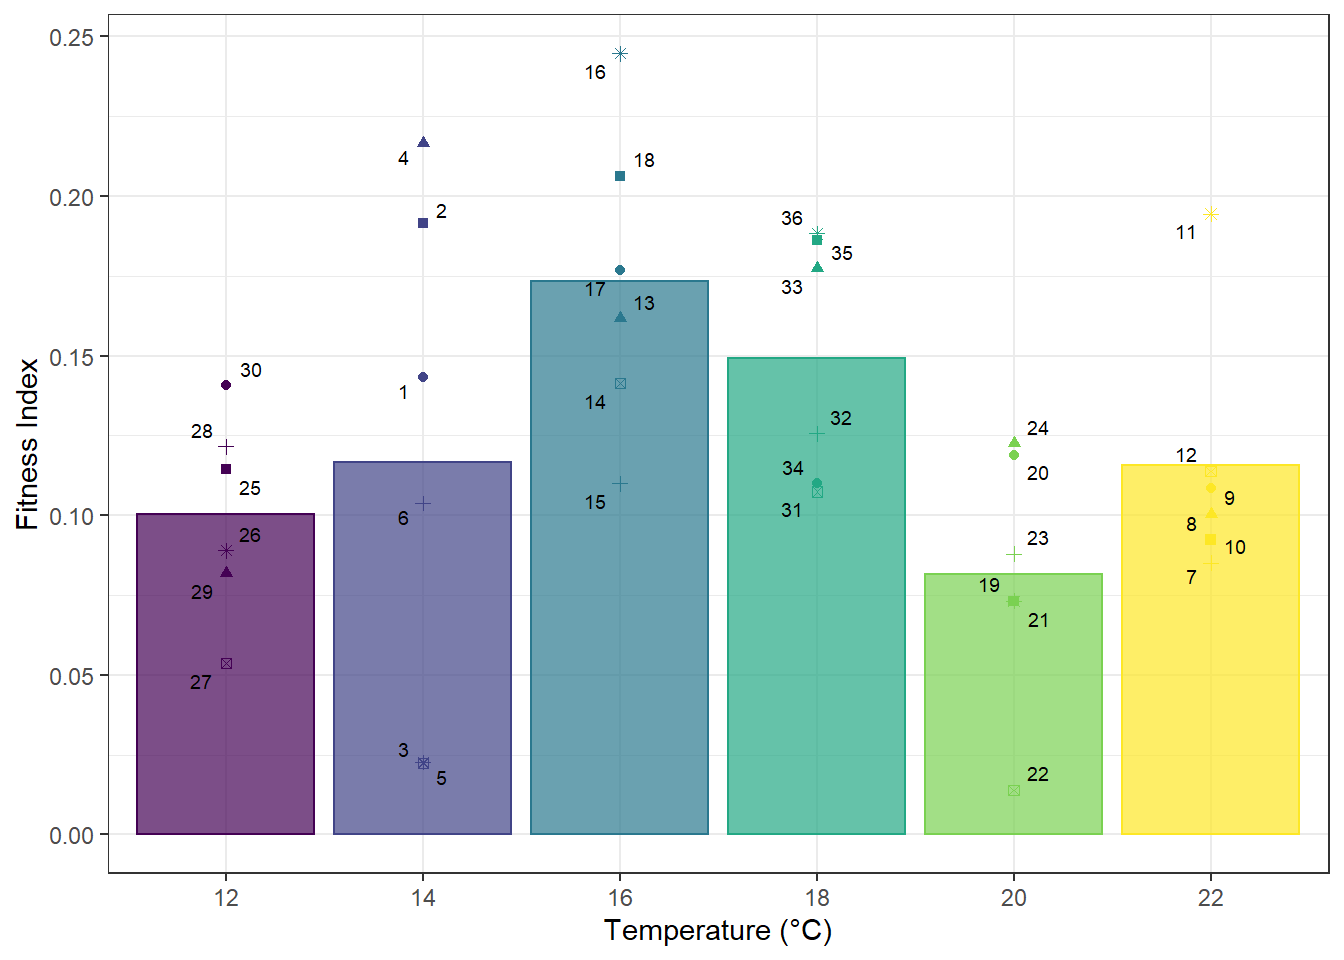
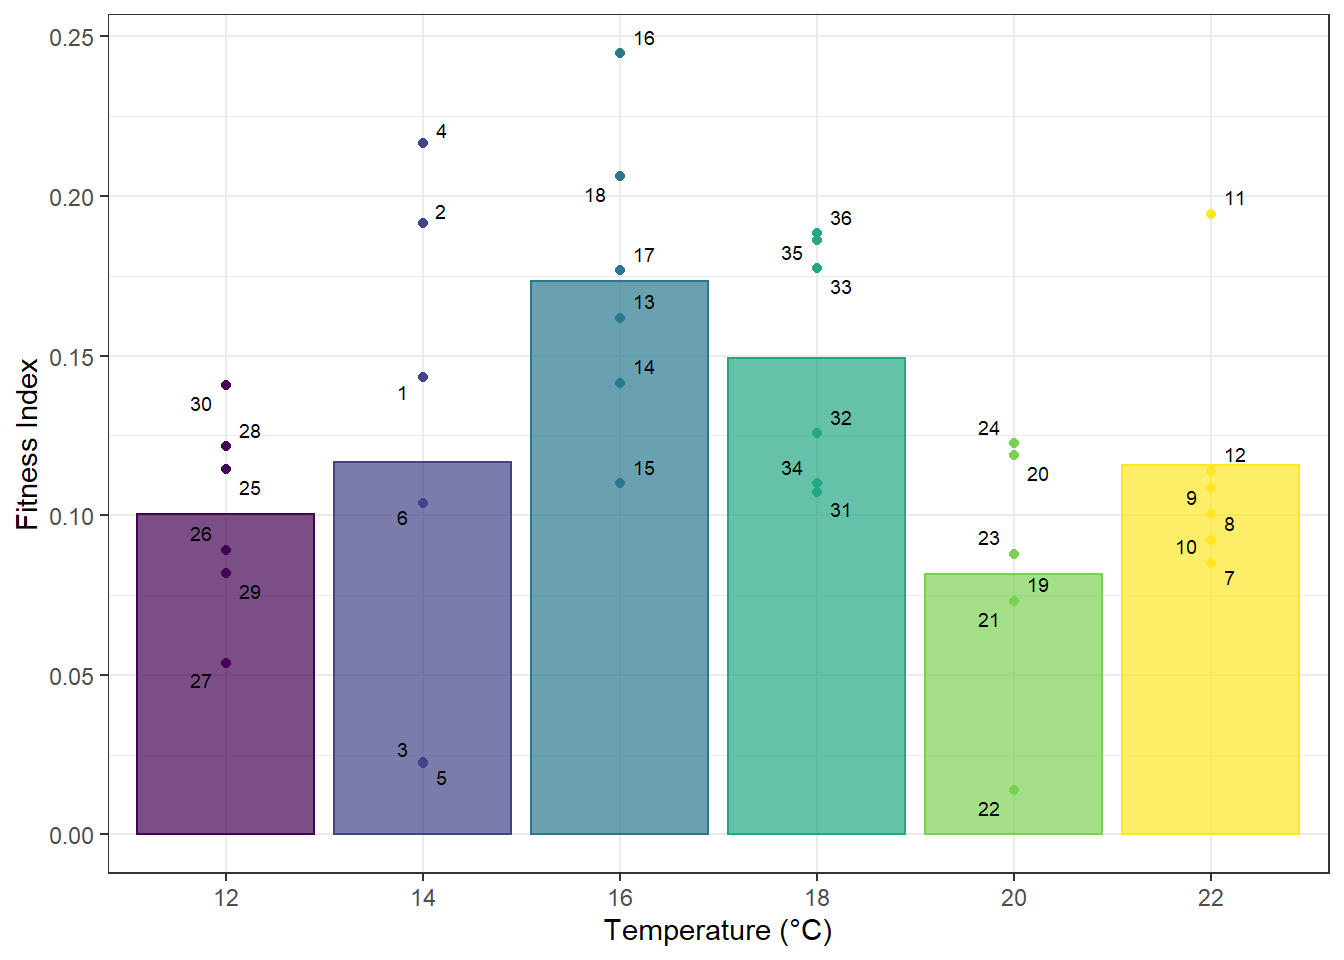
Fixed issue in github website plot

diff --git a/docs/fitness.html b/docs/fitness.html
@@ -258,8 +258,8 @@ code span.wa { color: #60a0b0; font-weight: bold; font-style: italic; } /* Warni
 <a class="sourceLine" id="cb34-17" title="17">                                             <span class="dt">zaxis =</span> <span class="kw">list</span>(<span class="dt">title =</span> <span class="st">&#39;Fitness Index&#39;</span>)))</a>
 <a class="sourceLine" id="cb34-18" title="18"></a>
 <a class="sourceLine" id="cb34-19" title="19">surf_fit</a></code></pre></div>
-<div id="htmlwidget-49cbc3a5ec70a724978b" style="width:672px;height:480px;" class="plotly html-widget"></div>
-<script type="application/json" data-for="htmlwidget-49cbc3a5ec70a724978b">{"x":{"visdat":{"2c542330188f":["function () ","plotlyVisDat"]},"cur_data":"2c542330188f","attrs":{"2c542330188f":{"z":[[0.140685143412217,0.143220950434744,0.176697243439627,0.109929108894883,0.118895798454461,0.108444125629431],[0.081867758815438,0.21668532245432,0.161802198716668,0.177295994291742,0.122468594904893,0.100359487782655],[0.114387836057187,0.191557804736859,0.206256853936537,0.186164270764454,0.0730318247364414,0.0923689928860526],[0.121601175372995,0.103830797166539,0.109931478140631,0.125601968954413,0.0879222850884593,0.085094968421349],[0.0537208318218097,0.0224041113467887,0.141439890436286,0.107377682625295,0.0139102911994651,0.113852619572023],[0.0890226758206065,0.0226753021989608,0.244732063437085,0.188301331869503,0.0731876349440555,0.194455762352886]],"x":[12,14,16,18,20,22],"y":[0,200,400,600,800,1000],"alpha_stroke":1,"sizes":[10,100],"spans":[1,20],"type":"surface"}},"layout":{"margin":{"b":40,"l":60,"t":25,"r":10},"scene":{"xaxis":{"title":"Temperature"},"yaxis":{"title":"Sulfate mg/L"},"zaxis":{"title":"Fitness Index"}},"hovermode":"closest","showlegend":false,"legend":{"yanchor":"top","y":0.5}},"source":"A","config":{"showSendToCloud":false},"data":[{"colorbar":{"title":"","ticklen":2,"len":0.5,"lenmode":"fraction","y":1,"yanchor":"top"},"colorscale":[["0","rgba(68,1,84,1)"],["0.0416666666666667","rgba(70,19,97,1)"],["0.0833333333333333","rgba(72,32,111,1)"],["0.125","rgba(71,45,122,1)"],["0.166666666666667","rgba(68,58,128,1)"],["0.208333333333333","rgba(64,70,135,1)"],["0.25","rgba(60,82,138,1)"],["0.291666666666667","rgba(56,93,140,1)"],["0.333333333333333","rgba(49,104,142,1)"],["0.375","rgba(46,114,142,1)"],["0.416666666666667","rgba(42,123,142,1)"],["0.458333333333333","rgba(38,133,141,1)"],["0.5","rgba(37,144,140,1)"],["0.541666666666667","rgba(33,154,138,1)"],["0.583333333333333","rgba(39,164,133,1)"],["0.625","rgba(47,174,127,1)"],["0.666666666666667","rgba(53,183,121,1)"],["0.708333333333333","rgba(79,191,110,1)"],["0.75","rgba(98,199,98,1)"],["0.791666666666667","rgba(119,207,85,1)"],["0.833333333333333","rgba(147,214,70,1)"],["0.875","rgba(172,220,52,1)"],["0.916666666666667","rgba(199,225,42,1)"],["0.958333333333333","rgba(226,228,40,1)"],["1","rgba(253,231,37,1)"]],"showscale":true,"z":[[0.140685143412217,0.143220950434744,0.176697243439627,0.109929108894883,0.118895798454461,0.108444125629431],[0.081867758815438,0.21668532245432,0.161802198716668,0.177295994291742,0.122468594904893,0.100359487782655],[0.114387836057187,0.191557804736859,0.206256853936537,0.186164270764454,0.0730318247364414,0.0923689928860526],[0.121601175372995,0.103830797166539,0.109931478140631,0.125601968954413,0.0879222850884593,0.085094968421349],[0.0537208318218097,0.0224041113467887,0.141439890436286,0.107377682625295,0.0139102911994651,0.113852619572023],[0.0890226758206065,0.0226753021989608,0.244732063437085,0.188301331869503,0.0731876349440555,0.194455762352886]],"x":[12,14,16,18,20,22],"y":[0,200,400,600,800,1000],"type":"surface","frame":null}],"highlight":{"on":"plotly_click","persistent":false,"dynamic":false,"selectize":false,"opacityDim":0.2,"selected":{"opacity":1},"debounce":0},"shinyEvents":["plotly_hover","plotly_click","plotly_selected","plotly_relayout","plotly_brushed","plotly_brushing","plotly_clickannotation","plotly_doubleclick","plotly_deselect","plotly_afterplot","plotly_sunburstclick"],"base_url":"https://plot.ly"},"evals":[],"jsHooks":[]}</script>
+<div id="htmlwidget-3110a3dd64e27a9abbde" style="width:672px;height:480px;" class="plotly html-widget"></div>
+<script type="application/json" data-for="htmlwidget-3110a3dd64e27a9abbde">{"x":{"visdat":{"2820621f1246":["function () ","plotlyVisDat"]},"cur_data":"2820621f1246","attrs":{"2820621f1246":{"z":[[0.140685143412217,0.143220950434744,0.176697243439627,0.109929108894883,0.118895798454461,0.108444125629431],[0.081867758815438,0.21668532245432,0.161802198716668,0.177295994291742,0.122468594904893,0.100359487782655],[0.114387836057187,0.191557804736859,0.206256853936537,0.186164270764454,0.0730318247364414,0.0923689928860526],[0.121601175372995,0.103830797166539,0.109931478140631,0.125601968954413,0.0879222850884593,0.085094968421349],[0.0537208318218097,0.0224041113467887,0.141439890436286,0.107377682625295,0.0139102911994651,0.113852619572023],[0.0890226758206065,0.0226753021989608,0.244732063437085,0.188301331869503,0.0731876349440555,0.194455762352886]],"x":[12,14,16,18,20,22],"y":[0,200,400,600,800,1000],"alpha_stroke":1,"sizes":[10,100],"spans":[1,20],"type":"surface"}},"layout":{"margin":{"b":40,"l":60,"t":25,"r":10},"scene":{"xaxis":{"title":"Temperature"},"yaxis":{"title":"Sulfate mg/L"},"zaxis":{"title":"Fitness Index"}},"hovermode":"closest","showlegend":false,"legend":{"yanchor":"top","y":0.5}},"source":"A","config":{"showSendToCloud":false},"data":[{"colorbar":{"title":"","ticklen":2,"len":0.5,"lenmode":"fraction","y":1,"yanchor":"top"},"colorscale":[["0","rgba(68,1,84,1)"],["0.0416666666666667","rgba(70,19,97,1)"],["0.0833333333333333","rgba(72,32,111,1)"],["0.125","rgba(71,45,122,1)"],["0.166666666666667","rgba(68,58,128,1)"],["0.208333333333333","rgba(64,70,135,1)"],["0.25","rgba(60,82,138,1)"],["0.291666666666667","rgba(56,93,140,1)"],["0.333333333333333","rgba(49,104,142,1)"],["0.375","rgba(46,114,142,1)"],["0.416666666666667","rgba(42,123,142,1)"],["0.458333333333333","rgba(38,133,141,1)"],["0.5","rgba(37,144,140,1)"],["0.541666666666667","rgba(33,154,138,1)"],["0.583333333333333","rgba(39,164,133,1)"],["0.625","rgba(47,174,127,1)"],["0.666666666666667","rgba(53,183,121,1)"],["0.708333333333333","rgba(79,191,110,1)"],["0.75","rgba(98,199,98,1)"],["0.791666666666667","rgba(119,207,85,1)"],["0.833333333333333","rgba(147,214,70,1)"],["0.875","rgba(172,220,52,1)"],["0.916666666666667","rgba(199,225,42,1)"],["0.958333333333333","rgba(226,228,40,1)"],["1","rgba(253,231,37,1)"]],"showscale":true,"z":[[0.140685143412217,0.143220950434744,0.176697243439627,0.109929108894883,0.118895798454461,0.108444125629431],[0.081867758815438,0.21668532245432,0.161802198716668,0.177295994291742,0.122468594904893,0.100359487782655],[0.114387836057187,0.191557804736859,0.206256853936537,0.186164270764454,0.0730318247364414,0.0923689928860526],[0.121601175372995,0.103830797166539,0.109931478140631,0.125601968954413,0.0879222850884593,0.085094968421349],[0.0537208318218097,0.0224041113467887,0.141439890436286,0.107377682625295,0.0139102911994651,0.113852619572023],[0.0890226758206065,0.0226753021989608,0.244732063437085,0.188301331869503,0.0731876349440555,0.194455762352886]],"x":[12,14,16,18,20,22],"y":[0,200,400,600,800,1000],"type":"surface","frame":null}],"highlight":{"on":"plotly_click","persistent":false,"dynamic":false,"selectize":false,"opacityDim":0.2,"selected":{"opacity":1},"debounce":0},"shinyEvents":["plotly_hover","plotly_click","plotly_selected","plotly_relayout","plotly_brushed","plotly_brushing","plotly_clickannotation","plotly_doubleclick","plotly_deselect","plotly_afterplot","plotly_sunburstclick"],"base_url":"https://plot.ly"},"evals":[],"jsHooks":[]}</script>
 <p>Not seeing a clear trend from the 3D surface plot, whether it be to temperature, sulfate, or an interaction of the two.
 (hint: it moves! drag it around to view from different angles)</p>
 </div>
@@ -294,7 +294,7 @@ The method we will use here still shows individual tanks and what their treatmen
 <a class="sourceLine" id="cb37-4" title="4"><span class="st">  </span><span class="kw">summarise</span>(<span class="dt">fit_index =</span> <span class="kw">mean</span>(fit_index))</a>
 <a class="sourceLine" id="cb37-5" title="5"></a>
 <a class="sourceLine" id="cb37-6" title="6"><span class="kw">ggplot</span>(tank_fit, <span class="kw">aes</span>(<span class="dt">x=</span>temp, <span class="dt">y=</span>fit_index, <span class="dt">color =</span> temp, <span class="dt">fill =</span> temp)) <span class="op">+</span></a>
-<a class="sourceLine" id="cb37-7" title="7"><span class="st">  </span><span class="kw">geom_point</span>(<span class="kw">aes</span>(<span class="dt">shape =</span> trtment)) <span class="op">+</span></a>
+<a class="sourceLine" id="cb37-7" title="7"><span class="st">  </span><span class="kw">geom_point</span>() <span class="op">+</span></a>
 <a class="sourceLine" id="cb37-8" title="8"><span class="st">  </span><span class="kw">geom_bar</span>(<span class="dt">data=</span>avg, <span class="dt">stat =</span> <span class="st">&quot;identity&quot;</span>, <span class="dt">alpha =</span> <span class="fl">0.7</span>) <span class="op">+</span></a>
 <a class="sourceLine" id="cb37-9" title="9"><span class="st">  </span>ggrepel<span class="op">::</span><span class="kw">geom_text_repel</span>(<span class="kw">aes</span>(<span class="dt">label =</span> tank), <span class="dt">color =</span> <span class="st">&quot;black&quot;</span>, <span class="dt">size =</span> <span class="fl">2.5</span>, <span class="dt">segment.color =</span> <span class="st">&quot;grey&quot;</span>) <span class="op">+</span></a>
 <a class="sourceLine" id="cb37-10" title="10"><span class="st">  </span><span class="kw">scale_color_viridis_d</span>() <span class="op">+</span></a>
@@ -309,7 +309,7 @@ The method we will use here still shows individual tanks and what their treatmen
 <a class="sourceLine" id="cb38-4" title="4"><span class="st">  </span><span class="kw">summarise</span>(<span class="dt">fit_index =</span> <span class="kw">mean</span>(fit_index))</a>
 <a class="sourceLine" id="cb38-5" title="5"></a>
 <a class="sourceLine" id="cb38-6" title="6"><span class="kw">ggplot</span>(tank_fit, <span class="kw">aes</span>(<span class="dt">x=</span>trtment, <span class="dt">y=</span>fit_index, <span class="dt">color =</span> trtment, <span class="dt">fill =</span> trtment)) <span class="op">+</span></a>
-<a class="sourceLine" id="cb38-7" title="7"><span class="st">  </span><span class="kw">geom_point</span>(<span class="kw">aes</span>(<span class="dt">shape =</span> temp)) <span class="op">+</span></a>
+<a class="sourceLine" id="cb38-7" title="7"><span class="st">  </span><span class="kw">geom_point</span>() <span class="op">+</span></a>
 <a class="sourceLine" id="cb38-8" title="8"><span class="st">  </span><span class="kw">geom_bar</span>(<span class="dt">data=</span>avg, <span class="dt">stat =</span> <span class="st">&quot;identity&quot;</span>, <span class="dt">alpha =</span> <span class="fl">0.7</span>) <span class="op">+</span></a>
 <a class="sourceLine" id="cb38-9" title="9"><span class="st">  </span>ggrepel<span class="op">::</span><span class="kw">geom_text_repel</span>(<span class="kw">aes</span>(<span class="dt">label =</span> tank), <span class="dt">color =</span> <span class="st">&quot;black&quot;</span>, <span class="dt">size =</span> <span class="fl">2.5</span>, <span class="dt">segment.color =</span> <span class="st">&quot;grey&quot;</span>) <span class="op">+</span></a>
 <a class="sourceLine" id="cb38-10" title="10"><span class="st">  </span><span class="kw">scale_color_viridis_d</span>() <span class="op">+</span></a>
